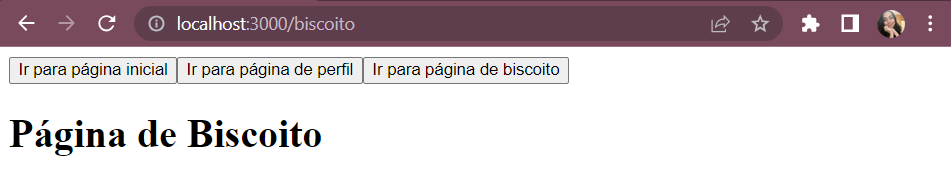
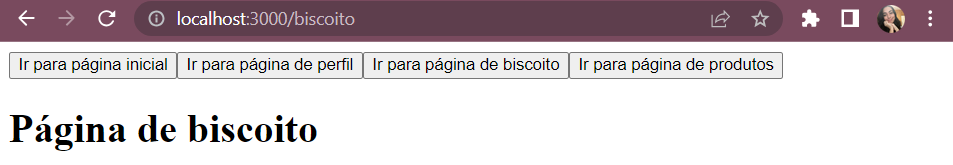
Exercício 3 ok ok!

diff --git a/src/routes/Router.js b/src/routes/Router.js
@@ -4,6 +4,7 @@ import HomePage from '../pages/HomePage';
 import ProfilePage from '../pages/ProfilePage';
 import ErrorPage from '../pages/ErrorPage';
 import BiscoitoPage from '../pages/BiscoitoPage';
+import ProductsPage from '../pages/ProductsPage';
 
 const Router = () => {
     return (
@@ -13,6 +14,7 @@ const Router = () => {
                 <Route path="/profile/:name" element={<ProfilePage />} />
                 <Route path="*" element={<ErrorPage />} />
                 <Route path="/biscoito" element={<BiscoitoPage />} />
+                <Route path="/product/:id" element={<ProductsPage />} />
             </Routes>
         </BrowserRouter>
     );

diff --git a/src/Components/Header.js b/src/Components/Header.js
@@ -1,5 +1,5 @@
 import { useNavigate } from 'react-router-dom';
-import { goToBiscoito, goToHome, goToProfile } from '../routes/coordinator';
+import { goToBiscoito, goToHome, goToProducts, goToProfile } from '../routes/coordinator';
 
 function Header() {
     const navegate = useNavigate();
@@ -26,6 +26,13 @@ function Header() {
                 }}
             >
                 Ir para página de biscoito
+            </button>
+            <button
+                onClick={() => {
+                    goToProducts(navegate, 123);
+                }}
+            >
+                Ir para página de produtos
             </button>
         </div>
     );

diff --git a/src/pages/ProductsPage.js b/src/pages/ProductsPage.js
@@ -1,0 +1,13 @@
+import React from 'react';
+import Header from '../Components/Header';
+
+const ProductsPage = () => {
+    return (
+        <>
+            <Header />
+            <h1>Página de produtos</h1>
+        </>
+    );
+};
+
+export default ProductsPage;

diff --git a/src/routes/coordinator.js b/src/routes/coordinator.js
@@ -9,3 +9,7 @@ export const goToProfile = (navegate, name) => {
 export const goToBiscoito = (navegate) => {
     navegate('/biscoito');
 };
+
+export const goToProducts = (navegate, id) => {
+    navegate(`/product/${id}`);
+};

diff --git a/README.md b/README.md
@@ -7,7 +7,7 @@
 -   [3. Exercício 2](#3-exercício-2)
 -   [4. Extra](#4-extra)
 -   [5. Exercício 3](#5-exercício-3)
--   [6. Informações úteis sobre o assunto](#6-informações-úteis-sobre-o-assunto)
+-   [6. Resultado Final](#6-resultado-final)
 
 ## 1. Configurações Iniciais
 
@@ -192,9 +192,15 @@ Isso não faz parte do exercício apenas quis criar uma página chamada biscoito
 
     ```
     import React from 'react';
+    import Header from '../Components/Header';
 
     const BiscoitoPage = () => {
-        return <div>Página de Biscoito</div>;
+        return (
+            <>
+                <Header />
+                <h1>Página de biscoito</h1>
+            </>
+        );
     };
 
     export default BiscoitoPage;
@@ -256,14 +262,6 @@ Isso não faz parte do exercício apenas quis criar uma página chamada biscoito
     export default BiscoitoPage;
     ```
 
-7. O resultado final foi esse:
-
-    ![Alt text](image.png)
-
-    ![Alt text](image-1.png)
-
-    ![Alt text](image-3.png)
-
 ## 5 Exercício 3
 
 ### Enunciado
@@ -276,6 +274,73 @@ Crie uma nova página de produto específico por id **“/product/:id”**
 
 ### Resolução
 
-## 6 Informações úteis sobre o assunto
+1. Dentro de `pages` criei um arquivo chamado `ProductsPage.js` com o seguinte código:
 
-[Router (documentação)](https://reactrouter.com/en/main)
+    ```
+    import React from 'react';
+    import Header from '../Components/Header';
+
+    const ProductsPage = () => {
+        return (
+            <>
+                <Header />
+                <h1>Página de produtos</h1>
+            </>
+        );
+    };
+
+    export default ProductsPage;
+
+    ```
+
+2. Em `Router.js`, acrescente mais um componente `Route` para essa rota, e importei o componente para usar em `element`:
+
+    ```
+    (..)
+    import ProductsPage from '../pages/ProductsPage';
+    (..)
+    <Route path="/product/:id" element={<ProductsPage />} />
+    (..)
+    ```
+
+3. Testei mudando o link manualmente:
+
+    ```
+    http://localhost:3000/product/:id
+    ```
+
+4. Acrescentei a função de mudar para essa rota no arquivo `coordinator.js`:
+    ```
+    export const goToProducts = (navegate, id) => {
+        navegate(`/product/${id}`);
+    };
+    ```
+5. Importei a função em `Header.js`, criei um botão para ela e chamei a função importada no Onclick do novo botão:
+
+    ```
+    (...)
+    import { goToBiscoito, goToHome, goToProducts, goToProfile } from '../routes/coordinator';
+    (...)
+    <button
+        onClick={() => {
+            goToProducts(navegate, 123);
+        }}
+    >
+        Ir para página de produtos
+    </button>
+    (...)
+    ```
+
+## 6 Resultado final
+
+-   Clicando em _página inicial_:
+    ![Alt text](image.png)
+
+-   Clicando em _página de perfil_:
+    ![Alt text](image-1.png)
+
+-   Clicando em _página de bicoito_:
+    ![Alt text](image-2.png)
+
+-   Clicando em _página de produtos_:
+    ![Alt text](image-3.png)
